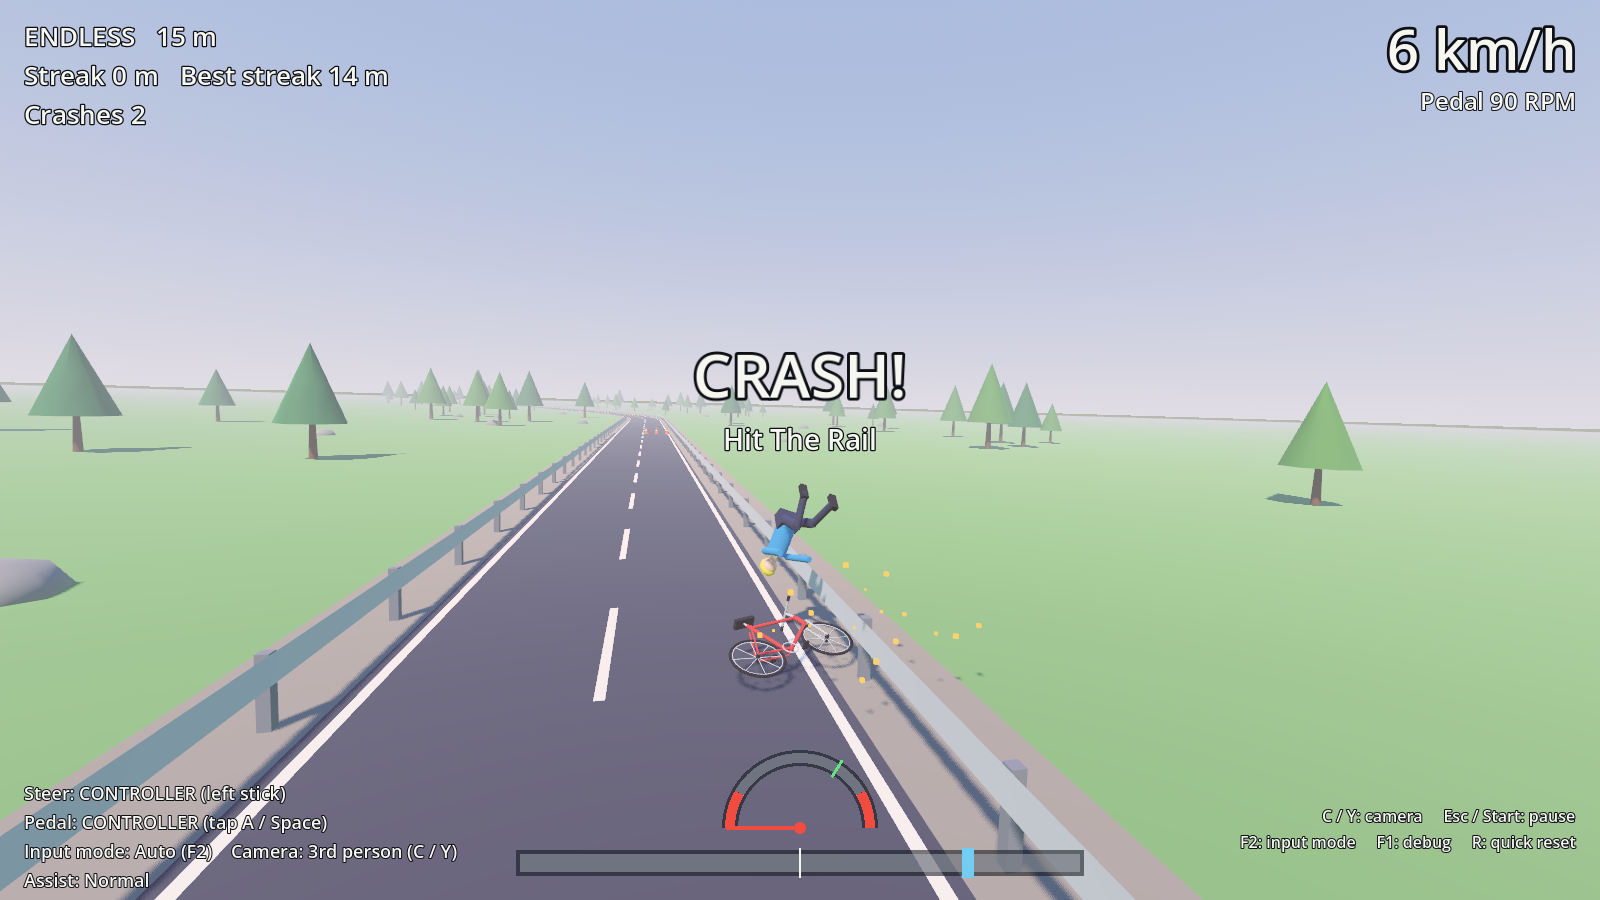
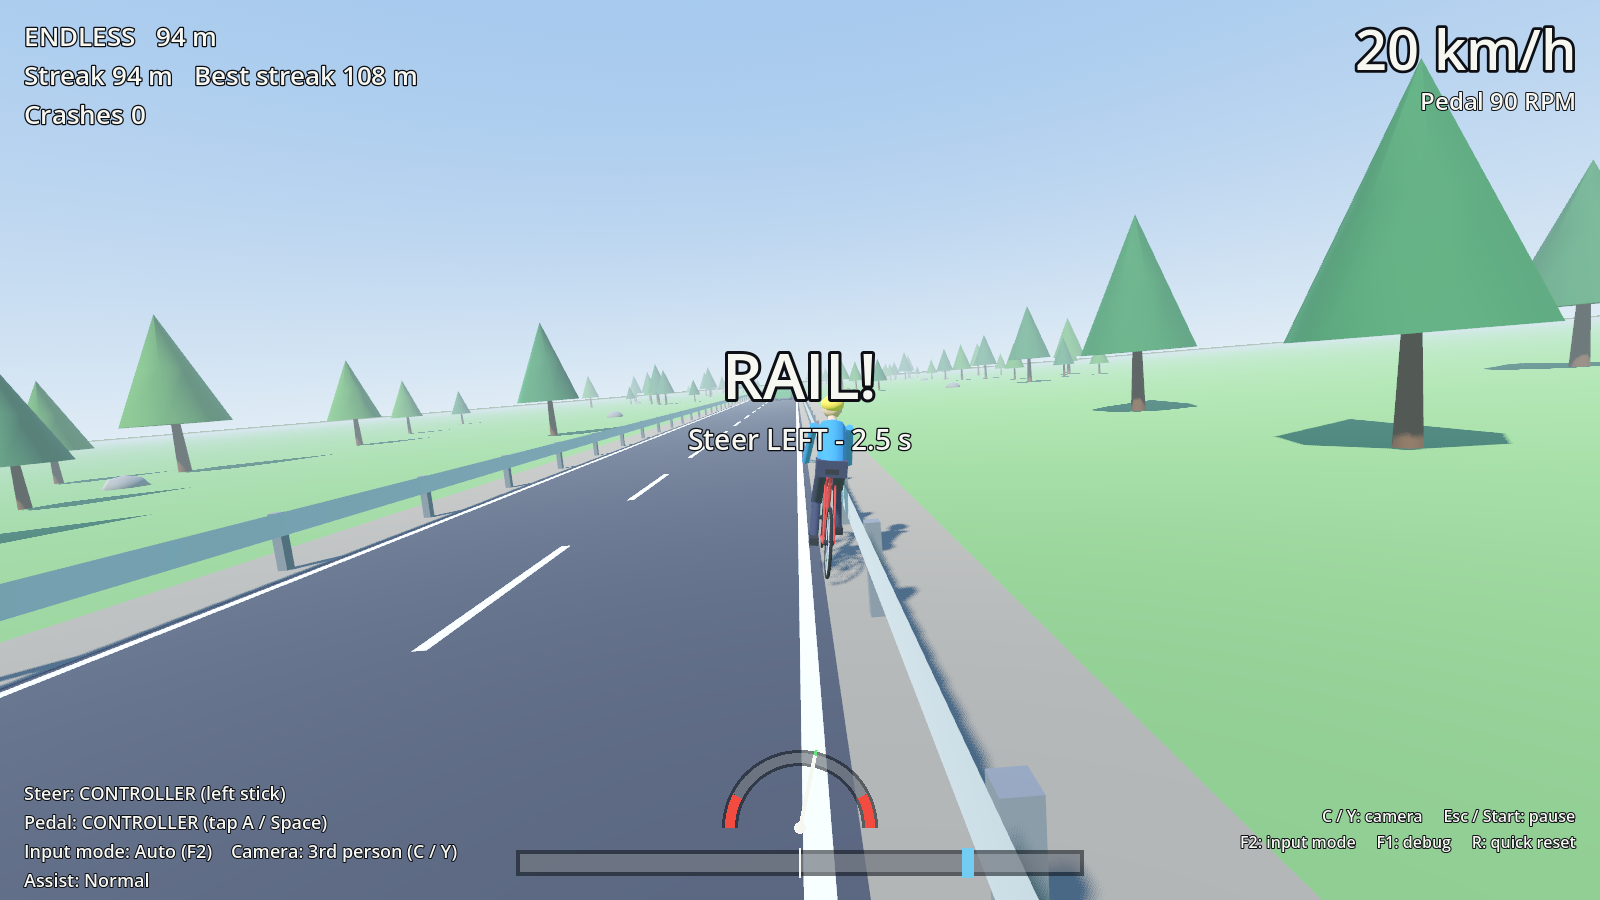
tune: 0.3.0 slower bike, wider road, gentler steering, forgiving rails, easier start
- Road 25% wider (lane_width_m 2.6 -> 3.25)
- 90 RPM now ~24 km/h (was 34); gentler acceleration
- Less steering, slower steering, soft centre; more theremin smoothing
- New fake steering assist: follows the road's curves, heading eases back
  to the road; new lean_assist and more damping for less sway
- Rails scrape instead of crashing; crash only after 2.5 s on the rail
- Endless: 300 m straight warm-up, difficulty ramps over 6 km with an ease-in curve
- Course: 300 m opening straight, gentler first curves
- Smoke test: new [rail scrape] checks, updated speed/fall checks

diff --git a/docs/TUNING.md b/docs/TUNING.md
@@ -20,8 +20,9 @@ The menu's **Balance assist** multiplies two bike values (`GameSession.ASSIST_SC
 
 The bike is simulated directly rather than with Godot's physics engine; that's simpler to tune and fully predictable. Each tick:
 
-1. **Speed.** Target = cadence × `speed_per_rpm` (0.105 → 90 RPM ≈ 34 km/h). Pedalling above the current speed accelerates toward the target (`pedal_response`, capped by `max_accel`). Pedalling slower than you're moving = coasting: `coast_decel + coast_drag·v²`, plus `stop_brake` when nobody pedals at all (0 RPM).
+1. **Speed.** Target = cadence × `speed_per_rpm` (0.075 → 90 RPM ≈ 24 km/h since 0.3.0; `max_accel` 1.5 and `pedal_response` 0.55 make it build up gently). Pedalling above the current speed accelerates toward the target (`pedal_response`, capped by `max_accel`). Pedalling slower than you're moving = coasting: `coast_decel + coast_drag·v²`, plus `stop_brake` when nobody pedals at all (0 RPM).
 2. **Steering.** Input −1…1 → front-wheel angle. The maximum angle shrinks with speed (`max_steer_deg_slow` → `max_steer_deg_fast` at `fast_speed`), `steer_expo` softens the centre, and `steer_rate_deg_s` filters jitter. Turn rate = v·tan(δ)/wheelbase. **Lateral acceleration** a = v × turn rate.
+   - **Steering assist (0.3.0, "fake" steering for the theremin).** On top of the real turn rate the bike also turns by `road_follow` × the road's own curve and is pulled back toward the road heading at `heading_assist` (1/s). Both are kinematic only: they turn the bike but are *not* part of `a`, so they never tip it. Effect: holding steer moves you across the road at a steady angle; letting go straightens you out along the road. Set both to 0 for the old feel. The game sets `Bike.road_yaw` / `road_curvature` each tick; without a road (unit tests) the assist is off.
 3. **Lean** (positive = right):
    ```
    lean_acc = gravity_scale · g/h · (sin(lean) − cos(lean) · a/g)     ← inverted pendulum + steering
@@ -29,23 +30,27 @@ The bike is simulated directly rather than with Godot's physics engine; that's s
               − lean_damping · lean_rate
               + wobble(v)                    ← wobble_noise below wobble_speed, plus speed_wobble always
    lean_eq = atan(a / g)          (the lean a real bike holds in that turn)
-   k(v)    = self_stability · smoothstep(wobble_speed, stable_speed, v)
+   k(v)    = (self_stability · smoothstep(wobble_speed, stable_speed, v) + lean_assist) · assist
    ```
    For small angles this is `lean_acc ≈ (T − k) · (lean − a/g) − d · lean_rate`, with T = `gravity_scale·g/h` (the tipping strength, 4.9 on Normal). The one number **T − k** decides the feel:
-   Since 0.2.1 the defaults are the 0.1.0 ones (`self_stability` 6.5, `gravity_scale` 0.4 → T ≈ 3.9): Normal is T − k > 0 below ~13 km/h and T − k < 0 above it, so at cruising speed the bike holds itself up and you mostly balance when slow. 0.2.0 tried T − k > 0 at every speed and it was far too hard (KI-19).
+   Since 0.2.1 the defaults are the 0.1.0 ones (`self_stability` 6.5, `gravity_scale` 0.4 → T ≈ 3.9): Normal is T − k > 0 below ~13 km/h and T − k < 0 above it, so at cruising speed the bike holds itself up and you mostly balance when slow. 0.2.0 tried T − k > 0 at every speed and it was far too hard (KI-19). 0.3.0 made it steadier: `self_stability` 8, plus `lean_assist` 2 at every speed, `wobble_speed` 1.3 / `stable_speed` 3.8, `lean_damping` 3.2. Normal now crosses T − k = 0 at about 8 km/h, and even at a standstill T − k is only ≈ 1.9, so slow wobbles are much slower.
    - **T − k clearly above 0** (slow on Normal; every speed on Hard): the bike is an inverted pendulum. Nobody steering → it tips over within a few seconds (`speed_wobble` starts the drift). Steering *toward* the fall pushes it back up. The bigger T − k, the faster both the falling and the steering response.
    - **T − k clearly below 0** (Easy and Normal above `stable_speed`): the bike holds itself up at `lean_eq`, steering simply carves turns, and hands-off never falls.
-   - **T − k ≈ 0 is the dead zone:** steering barely moves the lean, so you can't balance. Don't tune an assist level onto it. (Normal passes through it at about 13 km/h; riders only cross it, so that's fine. Hard stays well below it.)
+   - **T − k ≈ 0 is the dead zone:** steering barely moves the lean, so you can't balance. Don't tune an assist level onto it. (Normal passes through it at about 8 km/h since 0.3.0; riders only cross it, so that's fine. Hard stays well below it.)
    - The smoke test prints the time to fall with no pedalling, no steering and full steer at cruising speed (`[fall times]`).
-4. **Falling.** |lean| > `fall_angle_deg` → FALLING, and the bike tips to `fallen_rest_deg` and slides to a stop (`ground_friction`). Below `stall_speed` for `stall_fall_s` it tips over regardless. Rails and obstacles call `crash()`, which keeps `impact_speed_keep` of the speed. Potholes add a random `pothole_kick` to the lean rate instead.
+4. **Falling.** |lean| > `fall_angle_deg` → FALLING, and the bike tips to `fallen_rest_deg` and slides to a stop (`ground_friction`). Below `stall_speed` for `stall_fall_s` it tips over regardless. Obstacles call `crash()`, which keeps `impact_speed_keep` of the speed. Potholes add a random `pothole_kick` to the lean rate instead.
    - **Crash effects** (visual only, "Crash effects" group in `bike_tuning`): a hard hit throws the rider (`rider_throw_keep`, `rider_throw_up`, `rider_tumble`), spins and bounces the bike (`crash_spin_deg_s`, `crash_hop`), shakes the camera (`shake_impact`) and plays slow motion (`slowmo_scale` for `slowmo_s` real seconds). Plain falls use `soft_fall_throw` and `shake_fall`. Cones and barriers you hit go flying and stop blocking the road. The crash camera (`road_tuning` "Crash camera" group) pulls back and orbits in both camera modes.
-5. **Foot down** (the start, and after every respawn): the bike is held upright until `launch_speed`. Steering is weaker (`foot_down_steer_factor`).
+5. **Guard rails are forgiving (0.3.0).** Touching a rail scrapes along it instead of crashing: the bike is held at the rail, slowed (`road.rail_scrape_decel`), turned away until it points `rail_away_deg` off the rail (`rail_turn_deg_s`), and its lean is calmed (`rail_lean_calm`). The HUD shows "RAIL!" with the time left. Only `rail_grace_s` of rail time crashes you; the time drains at `rail_recover_rate` × real time once you're off it.
+6. **Foot down** (the start, and after every respawn): the bike is held upright until `launch_speed`. Steering is weaker (`foot_down_steer_factor`).
 
 ### Knobs to reach for first
 
 | Feels like | Change |
 |---|---|
 | Theremin steering too twitchy | `bike.steer_rate_deg_s` ↓, `bike.steer_expo` ↑, `input.osc_steer_smoothing_s` ↑, Max `slide` ↑ |
+| Steering feels too "on rails" / not assisted enough | `bike.heading_assist`, `bike.road_follow` ↓/↑ |
+| Too much sway / lean wobble | `bike.lean_assist` ↑, `bike.lean_damping` ↑, `road.chase_roll_factor` / `fp_roll_factor` ↓ (camera only) |
+| Rails too forgiving / too harsh | `road.rail_grace_s`, `road.rail_scrape_decel`, `road.rail_away_deg` |
 | Steering can't turn enough | `bike.max_steer_deg_fast` ↑ |
 | Falls too fast / too slowly overall | `bike.gravity_scale` ↓/↑, `bike.lean_damping` ↑/↓ (keep T − k well away from 0) |
 | Falls too fast / too slowly when nobody steers | `bike.speed_wobble` ↓/↑, `bike.self_stability` ↑/↓ (still well below T) |
@@ -55,11 +60,12 @@ The bike is simulated directly rather than with Godot's physics engine; that's s
 | Pedaller has to tap/pedal too fast | `bike.speed_per_rpm` ↑ |
 | Get-up too fiddly | `road.reset_center_tolerance` ↑, `road.reset_min_cadence_rpm` ↓, `road.reset_hold_s` ↓ |
 | Road too narrow / rails too close | `road.lane_width_m`, `road.rail_gap_m` |
-| Endless too hard too soon | `road.difficulty_ramp_m` ↑, `road.obstacle_gap_hard_m` ↑ |
+| Endless too hard too soon | `road.endless_intro_m` ↑ (straight warm-up), `road.difficulty_ramp_m` ↑, `road.difficulty_curve` ↑, `road.obstacle_gap_hard_m` ↑ |
+| Course start too hard | `CourseData.SEGMENTS` / `OBSTACLES` in `course_data.gd` (plain data) |
 
 ## Regression check after tuning
 
 ```
 D:\Godot_v4.7.2-stable_win64_console.exe --headless --path . --fixed-fps 60 res://scenes/test/smoke_test.tscn
 ```
-Set `RIDER_ASSIST=0/1/2` to try Easy/Normal/Hard (Normal is the pass/fail baseline; all three pass as of 0.2.0). Set `RIDER_TRACE=1` to print the bike state 3× per second and every course crash. Tests use fixed seeds (`Game.world_seed`, `Bike.noise_seed`), so a run repeats exactly.
+Set `RIDER_ASSIST=0/1/2` to try Easy/Normal/Hard (Normal is the pass/fail baseline; Easy and Normal pass, Hard fails the course and the rail test as of 0.3.0, KI-03). Set `RIDER_TRACE=1` to print the bike state 3× per second and every course crash. Tests use fixed seeds (`Game.world_seed`, `Bike.noise_seed`), so a run repeats exactly.

diff --git a/docs/HANDOFF.md b/docs/HANDOFF.md
@@ -1,6 +1,6 @@
 # Handoff: Theremin Rider
 
-**Last updated:** 2026-11-10 · **Version:** 0.2.1 · **Engine:** Godot 4.7.2 (`D:\Godot_v4.7.2-stable_win64.exe`; use `_console.exe` for CLI runs) · **Repo:** `D:\drive\ThereminRider`, GitHub `sahandazimi02-cmyk/ThereminRider` (private)
+**Last updated:** 2026-11-10 · **Version:** 0.3.0 · **Engine:** Godot 4.7.2 (`D:\Godot_v4.7.2-stable_win64.exe`; use `_console.exe` for CLI runs) · **Repo:** `D:\drive\ThereminRider`, GitHub `sahandazimi02-cmyk/ThereminRider` (private)
 
 ## 1. What this is
 
@@ -10,9 +10,10 @@ A co-op bicycle game. Player 1 steers and **balances** with a theremin's pitch. 
 
 | Area | State |
 |---|---|
-| Bike physics, crash/get-up loop, both modes, HUD, menus | Done; bot-tested headless (Easy and Normal pass; Hard fails the course again since 0.2.1, KI-03) |
+| Bike physics, crash/get-up loop, both modes, HUD, menus | Done; bot-tested headless (Easy and Normal pass; Hard fails the course, KI-03) |
+| Feel (0.3.0) | Slower bike (90 RPM ≈ 24 km/h), road 25 % wider, gentler steering plus a fake steering assist (follows the road, straightens out), less sway, forgiving rails (2.5 s of scraping before a crash), long straight easy start and a slower difficulty ramp. Needs a theremin playtest. |
 | Crash effects (thrown rider, spin, sparks, shake, slow motion, crash camera, knocked cones) | Done (0.2.0); checked in screenshots, not played by a human |
-| Balance feel | 0.2.1: back to the 0.1.0 balance (self-balancing at speed, balance by steering when slow) because 0.2.0 was far too hard (KI-19). Stop-pedalling still falls in ~4 s. Next: small tuning steps from here with the user. |
+| Balance feel | 0.3.0: steadier than 0.1.0 (`lean_assist`, more damping). 0.2.1: back to the 0.1.0 balance (self-balancing at speed, balance by steering when slow) because 0.2.0 was far too hard (KI-19). Stop-pedalling still falls in ~4 s. Next: small tuning steps from here with the user. |
 | Controller / keyboard play | Done. Not yet played by a human. |
 | OSC receive in Godot | Done; tested with `tools/osc_test_sender.py` |
 | Max patch (theremin → steer) | Generated and re-laid out into six columns (0.2.0), **not yet opened in Max** (KI-01) |
@@ -68,8 +69,8 @@ Key design decisions:
 ## 5. Next steps (suggested order)
 
 1. **Open `max/ThereminRider.maxpat` in Max 9**, fix anything that doesn't load (KI-01), calibrate, and confirm with Input check.
-2. **First human playtest with the controller**, then with the theremin. The user wants to tune balance from the 0.1.0 feel in small steps (KI-19); don't jump to 0.2.0-style "always unstable" again. Tune with TUNING.md's "Knobs to reach for first" table and log the results in CHANGELOG.
-3. **Build the pedal sensor** (MAX_SETUP.md, "Adding the stationary bike later") and turn on SEND PEDAL DATA. Tune `speed_per_rpm` so a comfortable real cadence gives the speed you want (0.2.0 default: 90 RPM ≈ 34 km/h).
+2. **First human playtest with the controller**, then with the theremin. 0.3.0 tuned for the theremin (slower, steering assist, forgiving rails); if it now feels too easy or "on rails", turn down `heading_assist` / `road_follow` / `rail_grace_s` first (TUNING.md knobs table). The user wants to tune balance from the 0.1.0 feel in small steps (KI-19); don't jump to 0.2.0-style "always unstable" again. Tune with TUNING.md's "Knobs to reach for first" table and log the results in CHANGELOG.
+3. **Build the pedal sensor** (MAX_SETUP.md, "Adding the stationary bike later") and turn on SEND PEDAL DATA. Tune `speed_per_rpm` so a comfortable real cadence gives the speed you want (0.3.0 default: 90 RPM ≈ 24 km/h).
 4. Decide Hard assist after playtesting (KI-03).
 5. Nice-to-haves: audio (wind/chain/crash), hills, more course tracks (`course_data.gd` is plain data), a proper art pass (replace `BikeModel` with a GLB; keep the `update_pose` API).
 

diff --git a/docs/CHANGELOG.md b/docs/CHANGELOG.md
@@ -2,6 +2,30 @@
 
 Format: newest first. Dates are YYYY-MM-DD.
 
+## 0.3.0: 2026-11-10, slower, steadier, more forgiving
+
+Feedback: the bike is too fast and speeds up too fast; theremin steering is still too hard (steers too much, too much sway); hitting the side should not be an instant fail; the start should be a straight, easy road and difficulty should ramp more slowly (course and endless).
+
+### Changed
+- **Road 25 % wider:** `lane_width_m` 2.6 → 3.25 (range raised to 5). Cones/barriers scale with the lane, so they still leave the other lane free.
+- **Slower bike:** `speed_per_rpm` 0.105 → 0.075 (90 RPM ≈ 24 km/h, was 34), `max_accel` 3.0 → 1.5, `pedal_response` 1.1 → 0.55, `launch_speed` 2.2 → 1.8.
+- **Less sensitive steering:** `max_steer_deg_slow` 30 → 22, `max_steer_deg_fast` 6 → 4, `fast_speed` 9 → 7, `steer_expo` 1.3 → 1.6 (softer centre), `steer_rate_deg_s` 160 → 90 (turns slower). Theremin: `osc_steer_deadzone` 0.03 → 0.06, `osc_steer_smoothing_s` 0.05 → 0.15.
+- **New "fake" steering assist** (`bike_tuning` "Steering assist" group): `road_follow` 0.6 (the bike follows 60 % of each curve by itself) and `heading_assist` 1.2/s (heading eases back to the road direction, so holding steer moves you across the road at a steady angle and letting go straightens you out). Kinematic only, never tips the bike.
+- **Less sway:** new `lean_assist` 2.0 (always-on pull toward the balanced lean), `self_stability` 6.5 → 8, `lean_damping` 2.2 → 3.2, `wobble_noise` 0.9 → 0.6, `wobble_speed` 1.7 → 1.3, `stable_speed` 5 → 3.8. Cameras copy less of the lean: `chase_roll_factor` 0.15 → 0.1, `fp_roll_factor` 0.65 → 0.45.
+- **Forgiving rails:** touching a rail no longer crashes. The bike scrapes along it (sparks, small shake, "RAIL! Steer LEFT/RIGHT – x.x s"), slows, is turned away and its lean is calmed. You crash only after `rail_grace_s` (2.5 s) of rail time; it drains 1.5× as fast when you're off. New `road_tuning` "Guard rails" group. Obstacles still crash you.
+- **Easy start, slower ramp:**
+  - Endless: new `endless_intro_m` 300 m straight after the start straight, with only a couple of obstacles; difficulty starts after it. `difficulty_ramp_m` 3000 → 6000 and new `difficulty_curve` 1.6 (stays easy longer: ~6 % after 1 km, 33 % after 3 km, max at 6 km). `obstacle_gap_easy_m` 70 → 100, `obstacle_gap_hard_m` 28 → 35, `curve_radius_easy_m` 160 → 220, `curve_radius_hard_m` 55 → 70.
+  - Course: opening straight 140 → 300 m with one cone group in the other lane, first two curves gentler (radius 120 → 180, 90 → 130), all other obstacles moved 160 m later. Finish now at 1720 m.
+
+### Tests
+- New `[rail scrape]`: touching the rail doesn't crash, steering away recovers, staying on it crashes.
+- Speed checks: 90 RPM reaches > 18 km/h and stays < 29 km/h.
+- `[fall times]`: full steer at cruise is now a steady turn rather than a fall (gentler steering); that line now ends at the rail instead.
+
+### Verified
+- Headless import: clean. Smoke test Normal: all pass (fall times: stop pedalling 3.2 s, hands off / full steer stay up; endless 286 m in 45 s, 0 crashes, top 24.3 km/h; course 4:02.7, 0 crashes). Easy: all pass. Hard: fails the course (11 crashes) and the rail-recovery check (the bot can't hold the Hard bike up while forced onto the rail), KI-03.
+- Screenshots retaken; looked at `third_person.png` (wider road, straight start) and `course.png`. Didn't look at the others. Not played by a human, and not tried with the theremin.
+
 ## 0.2.1: 2026-11-10, steering and balance back to 0.1.0
 
 Feedback on 0.2.0: everything else is good, but steering/balancing became far too hard. Back to the 0.1.0 balance for now; we'll tune from there.

diff --git a/docs/KNOWN_ISSUES.md b/docs/KNOWN_ISSUES.md
@@ -31,3 +31,6 @@ Append new entries; mark fixed ones instead of deleting them.
 - **KI-20: the thrown rider ignores the rails.** The rider is a simple ballistic body, so after a rail hit it can land on the far side of the rail or partly inside it. Visual only; the respawn is unaffected.
 - **KI-21: the thrown rider keeps its riding pose** (arms forward, legs bent) while tumbling and lying down; there's no ragdoll. Limbs can poke into the ground for a moment.
 - **KI-22: crash slow motion uses `Engine.time_scale`.** It's restored when the slow motion ends, on pause, on restart and when the game scene closes. If something ever runs slowly after a crash, this is where to look.
+- **KI-23 (0.3.0): the steering assist can feel "on rails".** `heading_assist` and `road_follow` turn the bike for you, so the bike can't be pointed far from the road direction (with full steer it settles ~15–30° off the road). Fine for lane changes and curves; if players want more freedom lower `heading_assist`. All assist levels get the same steering assist.
+- **KI-24 (0.3.0): rails no longer crash on contact.** You only crash after `rail_grace_s` of rail time. A rail hit at a steep angle still just scrapes (no bounce effect beyond sparks/shake).
+- *KI-03, 0.3.0:* Hard still fails the course in the bot test (11 crashes, down from 58) and fails the rail-recovery check. Easy and Normal pass with 0 crashes.

diff --git a/README.md b/README.md
@@ -7,7 +7,7 @@ A two-player co-op bicycle game (Godot 4.7.2).
 
 Both signals go through **Max (Cycling '74)**, which sends **OSC over UDP** to the game. A controller/keyboard version is built in for playtesting without the hardware.
 
-Ride a 2-lane road with guard rails. Hitting a rail or an obstacle knocks you down. To get back up, both players work together: the pedaller pedals while the steerer holds the steering centred.
+Ride a 2-lane road with guard rails. Hitting an obstacle knocks you down; touching a rail scrapes along it and only knocks you down if you stay on it for a few seconds. To get back up, both players work together: the pedaller pedals while the steerer holds the steering centred.
 
 ![third person](docs/screenshots/third_person.png)
 
